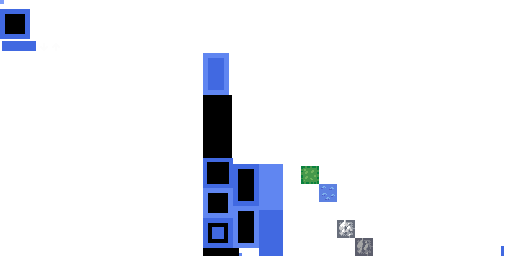
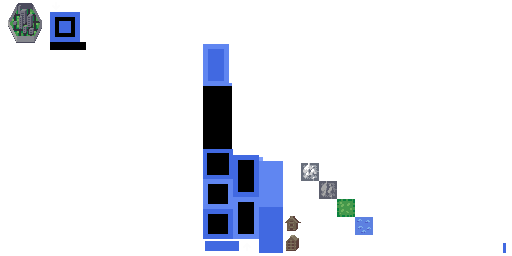
Basic city sprites

diff --git a/core/src/empire/gfx/Renderer.java b/core/src/empire/gfx/Renderer.java
@@ -2,14 +2,11 @@ package empire.gfx;
 
 import empire.game.Player;
 import empire.game.World.City;
-import empire.game.World.CitySize;
 import empire.game.World.Tile;
 import empire.gfx.gen.WaterRenderer;
 import io.anuke.arc.ApplicationListener;
 import io.anuke.arc.Core;
-import io.anuke.arc.graphics.Camera;
-import io.anuke.arc.graphics.Color;
-import io.anuke.arc.graphics.Texture;
+import io.anuke.arc.graphics.*;
 import io.anuke.arc.graphics.g2d.*;
 import io.anuke.arc.input.KeyCode;
 import io.anuke.arc.math.Mathf;
@@ -174,15 +171,11 @@ public class Renderer implements ApplicationListener{
         for(City city : state.world.cities()){
             Vector2 world = control.toWorld(city.x, city.y);
             float tx = world.x, ty = world.y;
+            TextureRegion region = Core.atlas.find("city-" + city.size.name());
 
-            Lines.stroke(4f, Color.CORAL);
-            if(city.size == CitySize.small){
-                Lines.circle(tx, ty, tilesize/2f);
-            }else if(city.size == CitySize.medium){
-                Lines.square(tx, ty, tilesize/2f);
-            }else{
-                Lines.poly(tx, ty, 6, tilesize);
-            }
+
+            Draw.color();
+            Draw.rect(region, tx, ty, region.getWidth() * tilesize/16f, region.getHeight() * tilesize/16f);
 
             if(state.player().hasGoodDelivery(city)){
                 icon("icon-export", tx, ty, 10f, 10f);
